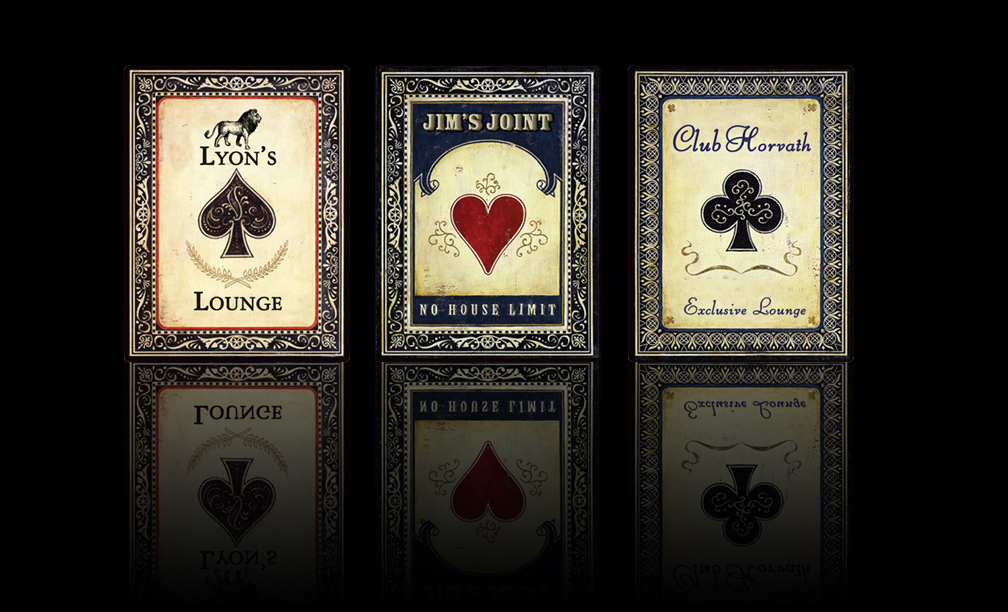
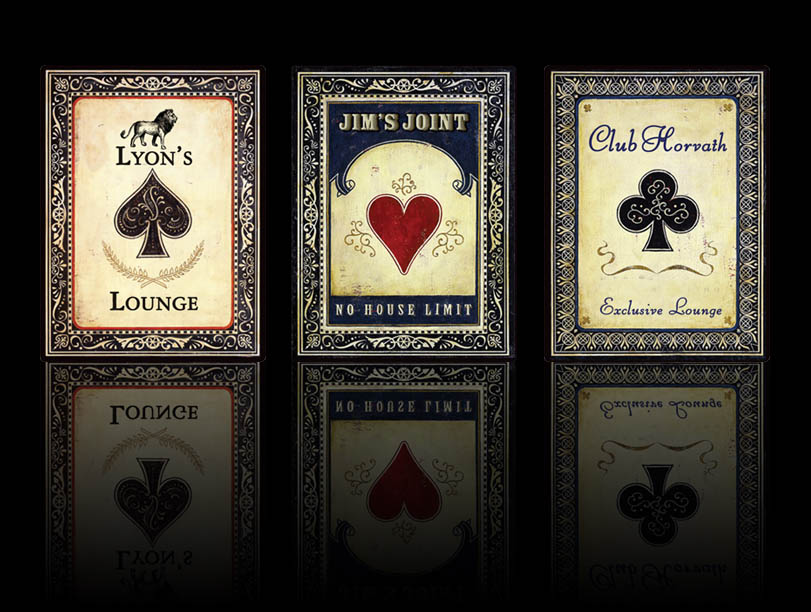
improved center alignment, quick fix

diff --git a/css/main.css b/css/main.css
@@ -2,7 +2,7 @@ body{
 	font-family: Helvetica;
 	background-color: #000000;
 	color: white;
-	font-size: 12px;
+	font-size: 14px;
 	}
 
 h1 {
@@ -15,11 +15,11 @@ h1 {
 
 h2 {
 	text-transform: uppercase;
-	font-size: 14px;
+	font-size: 16px;
 	text-align: center;
 	padding-top: 10px;
 	padding-bottom: 40px;
-	letter-spacing: 5px;
+	letter-spacing: 7px;
 	}
 
 nav {
@@ -34,12 +34,12 @@ nav {
 
 li {
     display:inline;
-    padding: 60px;
+    padding: 80px;
     font-weight: bold;
 	}
 
 .cards {
-	max-width: 520px;
+	max-width: 500px;
 	display: block;
     margin-left: auto;
     margin-right: auto;
@@ -47,11 +47,13 @@ li {
 
 #band {
   	background: #719D9E;
+    text-align: center;
 	}
 
 #triimagegroup{
-	padding-left: 30%;
-	padding-right: 30%;
+  display: inline-block;
+	/*padding-left: 30%;*/
+	/*padding-right: 30%;*/
 	}
 
 .roundcontainer {
@@ -62,7 +64,7 @@ li {
 
 .artbutton {
     border-radius: 100%;
-    border: 5px solid white;
+    border: 4px solid white;
     max-width: 120px;
 	}
 
